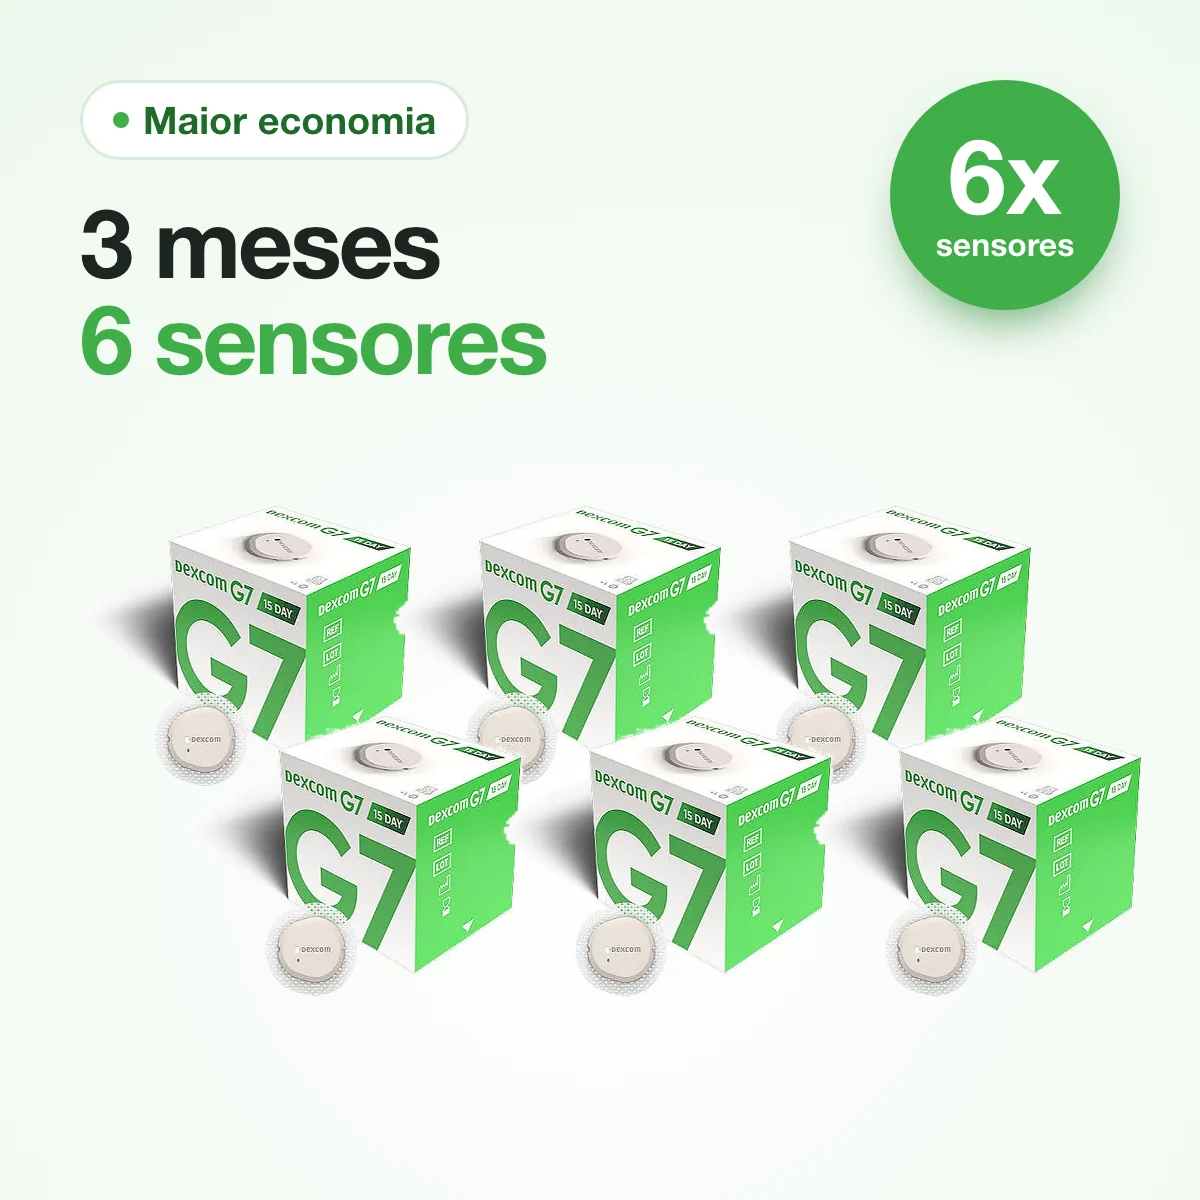
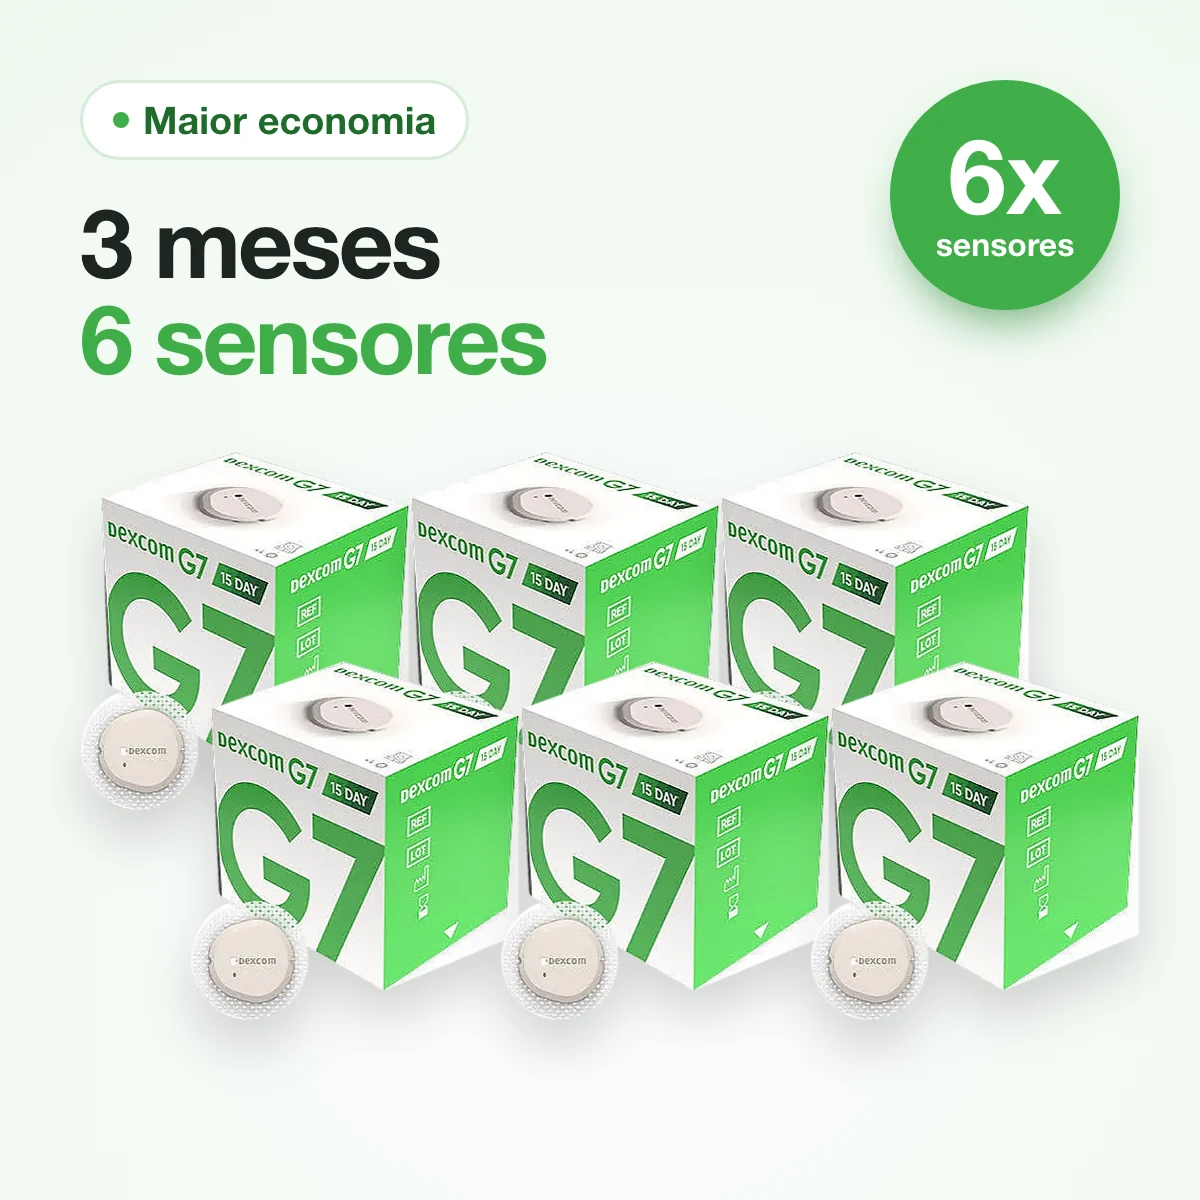
Fotos dos planos: recorte da caixa refeito, sem partes faltando

Changed region(s): [[0.0617, 0.37, 0.9558, 0.8633]]

diff --git a/scripts/store-images/build.py b/scripts/store-images/build.py
@@ -93,17 +93,17 @@ def header(eyebrow, title_html, sub=None):
 
 # ---------- Fotos dos planos ----------
 LAYOUTS = {
-    # n: (largura da caixa, [(left, top)], posição do conjunto)
-    2: (600, [(40, 0), (340, 170)]),
-    4: (470, [(20, 0), (440, 0), (130, 230), (560, 230)]),
-    6: (350, [(0, 20), (310, 20), (620, 20), (110, 230), (420, 230), (730, 230)]),
+    # n: (largura da caixa, [(left, top)] dentro da área das caixas)
+    2: (540, [(40, 40), (330, 175)]),
+    4: (440, [(20, 0), (440, 0), (130, 220), (550, 220)]),
+    6: (330, [(0, 20), (310, 20), (620, 20), (110, 230), (420, 230), (730, 230)]),
 }
 
 
 def plan(n, months, eyebrow):
     bw, pos = LAYOUTS[n]
     boxes = "".join(
-        f'<img src="{BOX}" style="position:absolute;left:{x}px;top:{y}px;width:{bw}px;z-index:{i}">'
+        f'<img src="{BOX}" style="position:absolute;left:{x}px;top:{y}px;width:{bw}px;z-index:{i};filter:drop-shadow(0 28px 26px rgba(0,0,0,.16))">'
         for i, (x, y) in enumerate(pos)
     )
     mes = "mês" if months == 1 else "meses"
